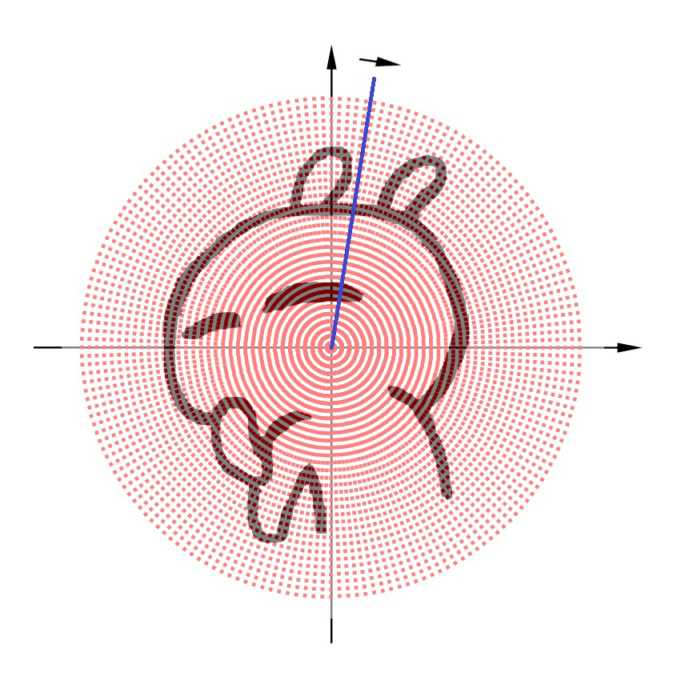
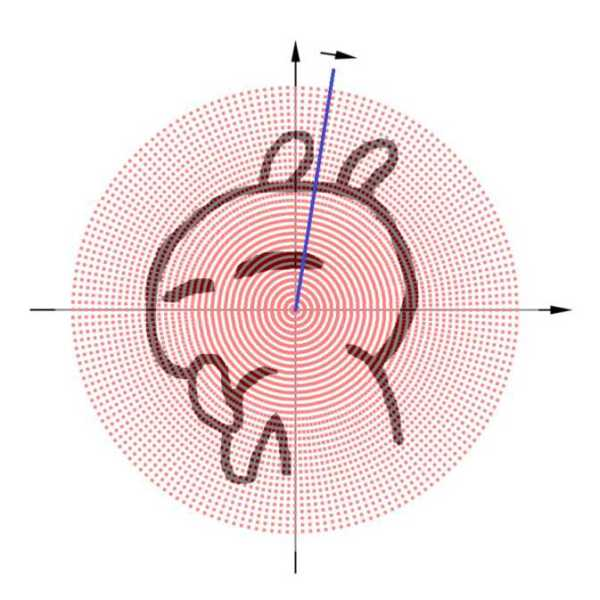
* 完善pov页面

diff --git a/pov.md b/pov.md
@@ -10,11 +10,15 @@ title: POV
 </div>
 </div>
 
+
 旋转时钟（或称POV-LED），也就是利用视觉暂留现象，通过一排（或数目有限）的LED灯快速地在一定区域重复扫过，来实现一个面的图像或文字的显示。相信很多有电子设计基础、会写单片机的朋友都做过。
+
+笔者最初就是在一个宣讲会上看到一位学长做的旋转时钟，从此便热爱上了电子设计，并计划着自己实现一个旋转时钟。通过学习和努力，最终完成了这一制作，在传统的旋转时钟的基础之上，也进行了一些改进，接下来便会同大家分享这一制作。笔者还有很多很有趣的点子，也会持续更新这个项目并实现这些点子。欢迎大家持续关注这个项目，有任何建议也欢迎告知笔者，让我们一起完善这个有趣的东西！
 
 ![](/assets/img/pov.jpg)
 
-笔者最初就是在一个宣讲会上看到一位学长做的旋转时钟，从此便热爱上了电子设计，并计划着自己实现一个旋转时钟。但就如同大多数人看到的一样，由于旋转时钟是圆周形扫描，而现在大多数现有的图片或文字的点阵提取软件都是按照行或者列来进行扫描的。所以使用这些点阵提取软件得到的数据在旋转时钟上面显示出来的效果只会是一个看上去像是扇形的带有一定畸变的图形，并不能得到我们平时经常看到的正向显示的效果。
+## 点阵数据提取原理及其改进
+但就如同大多数人看到的一样，由于旋转时钟是圆周形扫描，而现在大多数现有的图片或文字的点阵提取软件都是按照行或者列来进行扫描的。所以使用这些点阵提取软件得到的数据在旋转时钟上面显示出来的效果只会是一个看上去像是扇形的带有一定畸变的图形，并不能得到我们平时经常看到的正向显示的效果。
 
 根据旋转时钟的显示原理：
 
@@ -26,12 +30,148 @@ title: POV
 
 如果我们想要在旋转时钟上面显示这只兔斯基，那么只需要兔斯基的轮廓覆盖住的相应的点点亮就可以实现理想的显示效果了。
 
-旋转时钟的显示原理不能改变，那么可以做文章的就只有显示的数据了。在进行点阵数据提取的时候，一般传统的都是按照列或者行来提取数据，如下图所示：
+旋转时钟的显示原理不能改变，那么可以做文章的就只有显示的数据了。在进行点阵数据提取的时候，一般传统的都是按照列或者行来提取数据，如下图所示，其中图片中的紫线代表正在扫描的位置，而箭头代表扫描的方向：
 
 ![](/assets/img/pov-theory-3.jpg)
 
-用这种方法扫描得到的点阵数据再通过旋转时钟进行显示以后自然会出现类似扇形的畸变。那么，我们反其道而行之，在扫描的时候根据旋转时钟显示的扫描方向，亦即以图片中心为原点，扫描线绕该原点旋转360°进行点阵数据的提取，那么最后通过旋转时钟显示得到的图片自然就是正常没有畸变的图片了。如下图所示：
+用这种方法扫描得到的点阵数据再通过旋转时钟进行显示以后自然会出现类似扇形的畸变。那么，我们反其道而行之，在扫描的时候根据旋转时钟显示的扫描方向，亦即以图片中心为原点，扫描线绕该原点旋转360°进行点阵数据的提取，那么最后通过旋转时钟显示得到的图片自然就是正常没有畸变的图片了。如下图所示，其中图片中的紫线代表正在扫描的位置，而箭头代表扫描的方向：
 
 ![](/assets/img/pov-theory-4.jpg)
+
+那么，在弄明白原理和问题的解决办法以后，就可以开始实践了！利用MATLAB写出相关代码，就可以实现图片的点阵数据的提取了。相关MATLAB代码如下：
+
+```
+clear;
+clc;
+
+%定义扫描范围是一个以450像素距离为半径的圆
+l = 450;
+
+%定义扫描精度，此处为一圈扫描360次，也就是精度为1°，可根据需要自行灵活设置
+num = 360;
+
+%生成一个用以暂存数据的数组，由于每个数据是一个0~255的整数，故用个相应维数的向量表示就可以了
+output = 1 : num;
+
+%读取图片数据，此处因为一个500*500的图片，且要显示的内容在一个以450像素距离为半径的圆内，可根据需要自行灵活设置
+picture = uint8(255*ones(1000)) - imread('picture_1.bmp');
+
+%以每1°为步进开始生成点阵数据
+for m = 1 : num
+%计算该时刻扫描线所处角度并计算x和y的变化量
+a = (89 + m) * pi / 180; %前面加的89是为了重新设置起始扫描位置，以实现图片的显示方向，可根据需要自行灵活设置
+    lx = l * cos(a);
+    ly = l * sin(a);
+    dx = lx / 31;
+    dy = ly / 31;
+
+    %确定扫描线的位置以后，以每个led为中心得到该处是否应该亮灯。值得注意的是，由于图片像素较高，需要一个范围内进行确认，此处是在一个5*5的巨星范围内确认
+    for n = 0 : 31
+        if (      picture(fix(500 - ly + n*dy),fix(500 + lx - n*dx))...
+                & picture(fix(501 - ly + n*dy),fix(500 + lx - n*dx)) & picture(fix(499 - ly + n*dy),fix(500 + lx - n*dx))...
+                & picture(fix(500 - ly + n*dy),fix(501 + lx - n*dx)) & picture(fix(500 - ly + n*dy),fix(499 + lx - n*dx))...
+                & picture(fix(502 - ly + n*dy),fix(500 + lx - n*dx)) & picture(fix(498 - ly + n*dy),fix(500 + lx - n*dx))...
+                & picture(fix(500 - ly + n*dy),fix(502 + lx - n*dx)) & picture(fix(500 - ly + n*dy),fix(498 + lx - n*dx))...
+                & picture(fix(501 - ly + n*dy),fix(501 + lx - n*dx)) & picture(fix(501 - ly + n*dy),fix(499 + lx - n*dx))...
+                & picture(fix(499 - ly + n*dy),fix(501 + lx - n*dx)) & picture(fix(499 - ly + n*dy),fix(499 + lx - n*dx))...
+                & picture(fix(502 - ly + n*dy),fix(502 + lx - n*dx)) & picture(fix(502 - ly + n*dy),fix(498 + lx - n*dx))...
+                & picture(fix(498 - ly + n*dy),fix(502 + lx - n*dx)) & picture(fix(498 - ly + n*dy),fix(498 + lx - n*dx)) )
+%生成二进制数据
+output(m) = bitor(output(m) , 2 ^ n);
+        end
+    end
+end
+
+%以十六进制的形式保存得到的点阵数据
+fid=fopen('OUTPUT.txt','w');
+fprintf(fid,'0x%x,0x%x,0x%x,0x%x,0x%x,0x%x,0x%x,0x%x,0x%x,0x%x,\n',output);
+fclose(fid);
+```
+利用上段提取字模和图片点阵数据的Matlab程序，对需要提取的图片或者文字信息进行处理以后，就可以得到需要的数据了。下面是利用上诉程序得到的兔斯基这张图片的数据
+
+![](/assets/img/pov-data-matrix.jpg)
+
+可以看到，每一组数据是由一个8位的十六进制数据构成，刚好是32位二进制数据，二进制“1”就代表是led要亮，“0”则代表灭。
+
+## 单片机控制程序设计思路
+
+在单片机控制程序方面需要的设计思路是利用光电传感器或者霍尔传感器（也可以使用诸如二维陀螺仪等传感器，但是这种一般在设计自行车轮毂的POV等不方便设置参考点的时候才需要用到，笔者在这里描述的POV主要是一个自制的单独模块，所以一般的光电传感器或者或偶尔传感器就可以满足设计要求了）在基板旋转到每一圈中的固定位置时，产生一个定位信号，并以此为基准开始每一度的扫描显示。
+
+![](/assets/img/pov-demo.jpg)
+
+如上图所示，在每转一圈的同时进行计时，旋转一圈得到的时间数据除以显示精度（例如精度为1°时，就除以360）就可以得到扫描显示间隔的时间，然后根据旋转该圈起始时间和当前时刻就可以得到基板当前的实际位置，然后根据数据对应显示该位置应显示的内容即可。
+
+有一点值得注意，若使用的单片机的缓存（ram）较大，可以设置一个显示缓存，扫描显示的时候显示的就是这个缓存里面的数据，需要变换图像的时候只需要更新缓存里面的数据即可。
+
+显示控制的程序流程图：
+
+![](/assets/img/pov-flow-graph.jpg)
+
+## 硬件环境的搭建
+要实际做出一个旋转时钟，少了实物制作当然是不行的，旋转时钟的系统框图如下所示：
+
+![](/assets/img/pov-hardware-graph.jpg)
+
+其中，具体需要注意的有以下几点：
+
+* 微控制器的选取
+
+由于要储存大量的图像信息（例如，以笔者试做的旋转时钟为例，取精度为1°，有单色的led共32只，那么在不考虑数据压缩的情况下，旋转一周所显示的图片的数据量为：360*32=11520 bit=1440 Byte，假如加入数字时钟等需要存入预定数据的应用，那么至少需要存储2+10+7+10=29张图片（由于位置的不同，和应用的特殊性，每个不同的位置的不同数字都需要单独的数据），也就是29*1440=41760 Byte的数据，笔者在编写程序的时候，消除了一定的冗余，但是最终的数据量也达到了20KB，显然，一般的单片机不能满足要求），所以微控制器的ROM不能太小，而且需要具备外部中断和定时器的基本功能。笔者之前试做的一个样品使用的控制芯片是MSP430F149，同样也可以考虑功能更强大的STM32F103系列，该系列有大容量的器件，还可以通过增加蓝牙等通讯模块来实现数据的实时透传，笔者后期也会考虑使用arduino等用户群体较大的器件；
+
+* 电机的选取
+
+转速不能太慢，否则显示会出现人眼可见的闪烁；但也不能太快，不然旋转的板子可能会产生脱落，摇晃等危险。故转速在2000rpm左右比较合适，最好是根据电压可调转速的。笔者之前试做的一个样品使用的电机是一个9V-12V可调，转速在2000rpm左右的直流电机；
+
+* 供电方式的选取
+
+具体来讲主要有电池供电、电刷供电、无线传能这三种方法。无线传能的实现难度比较大，而且效率较低，所以不予考虑；电池供电虽然简便，但是在旋转基板上面安装电池以后配重问题比较难解决，而且高速旋转可能导致电池飞出，所以也不予考虑；电刷供电虽然是机械式的供电方式，有机械损耗等问题，但是综合起来时比较靠谱的方案，所以笔者最终选用了电刷供电的供电方式。
+
+![](/assets/img/pov-brush-power.jpg)
+
+如上图所示电机轴芯是与电机的供电电路绝缘的，所以可以用作旋转基板的供电（GND），在轴芯外面裹上一层热缩管用以绝缘，在套上一个铜套就可以用作基板的电源（VCC）供电。电刷只需要分别与铜套和转轴接触就可以实现旋转基板的供电。
+
+* 定位方式的选取
+
+在基板旋转到定位点以后，需要一个脉冲信号，用以标记零点位置并重置计数数据，方便在接下来的一圈中准确地对基板的实时位置经行定位。一般来说，主要有霍尔传感器和光电传感器两种方式，这两种方式基本都差不多，任选一种方式即可。笔者之前试做的一个样品使用的是光电传感器的方式。如果在不方便安置磁钢或者挡光片的情况下，也可以考虑使用二维陀螺仪等传感器；
+
+* 旋转基板的配重
+由于在旋转时钟工作的时候，旋转基板是高速旋转的，所以需要对旋转基板进行配重，使其能够平稳地工作。具体做法为：可以再旋转基板的两头预留一些孔位，根据重量在合适的位置添加铜柱以使基板的重心在旋转中心处；
+
+基本上，进行实物制作的时候需要注意的就有以上几点。由于笔者在进行实验样品的实物制作的时候选择的是利用洞洞板和跳线手焊的方式，而电路图比较简单，也没有具体画出电路原理图或者绘制出PCB板，所以具体制作过程在此略过。但是，笔者正在制作一个可以实现RGB彩色显示的旋转时钟，而且正在设计相关的PCB板，预计2014年暑期就可以完成。而且该项目是一个开源项目，如果你对此项目感兴趣的话，欢迎关注其进展情况。
+
+下面就是笔者制作的旋转时钟的实物图：
+
+![](/assets/img/pov-demo-1.jpg)
+
+![](/assets/img/pov-demo-2.jpg)
+
+利用前面提到的提取字模和图片点阵数据的原理，通过Matlab编写相关程序，对需要提取的图片或者文字信息进行处理以后，把数据烧写到单片机中，便可以得到理想的效果。
+
+下面是一些最终效果的展示：
+
+![](/assets/img/pov-demo-3.jpg)
+
+![](/assets/img/pov-demo-4.jpg)
+
+![](/assets/img/pov-demo-5.jpg)
+
+![](/assets/img/pov-demo-6.jpg)
+
+## 写在最后
+这个旋转时钟是笔者在前年，也就是2012年10月的时候帮做硬件的队友做出来当做生日礼物送给他姐姐的。由于那个时候专业知识还不够完善，没有学习PCB设计，所以无奈只能选择手焊的方式（真的是太痛苦了。。。），所以制作也不算精良。
+
+笔者在写这篇文章的时候由于一些契机，将这个趣味制作翻了出来分享给大家，再加上笔者之前的一些奇思妙想，有了制作RGB彩色旋转显示系统的想法，而且经过这期间的学习，笔者已经会绘制PCB板了。所以，我也在继续完善这个项目，预计2014年暑期就可以完成RGB彩色旋转显示系统，下面是我已经完成设计的PCB板（正在工厂经行加工，很快就可以拿到实物了）的展示：
+
+![](/assets/img/pov-pcb-1.png)
+
+![](/assets/img/pov-pcb-2.png)
+
+![](/assets/img/pov-pcb-3.png)
+
+![](/assets/img/pov-pcb-4.png)
+
+考虑到光心的准确重合，采用了RGB三个叶片状的设计，同时也突破了旋转时钟一贯的长条形外形风格。而且将供电模块，无线模块还有时钟模块全部和在一起画在另一层板子上面，同控制显示模块（即最大的那块板子）分立开来，不仅简化了布局布线，方便修改板子，也在一定程度上解决了配重的问题。由于主要的显示控制板采用三叶设计，比较像一个三叶螺旋桨，这也是这个项目名字FlyingPOV的由来。当然，它肯定不能飞啦~（笑）
+
+该系统不仅可以像前述旋转时钟一样无畸变地显示图片和文字，还可以实现彩色图片的显示，理论上可以完成一些简单动画的播放，笔者还将加入蓝牙模块，以实现动画或者图片的实时显示。如果你对笔者的这一项目感兴趣，欢迎关注笔者的进展，相信一定不会令你失望的！
 
 
